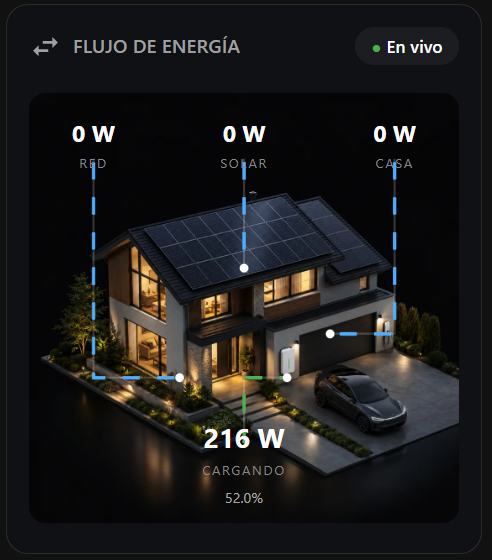
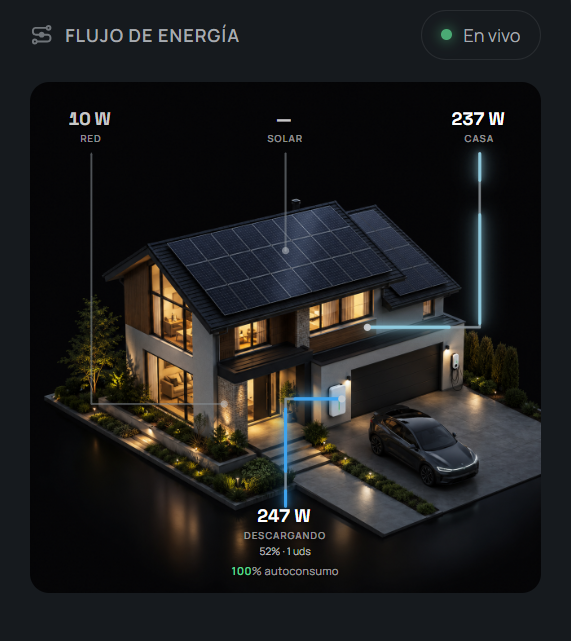
feat: align SVG flow paths to reference design, add neon glow, self-consumption and battery units

Changed region(s): [[0.061, 0.1518, 0.9451, 0.9107], [0.061, 0.0304, 0.4878, 0.1214], [0.7622, 0.0304, 0.9146, 0.0911]]

diff --git a/lovelace-3d-power-flow-card.js b/lovelace-3d-power-flow-card.js
@@ -7,63 +7,104 @@ class PowerFlow3DCard extends HTMLElement {
       const title = this.config.title || 'FLUJO DE ENERGÍA';
 
       this.innerHTML = `
-        <ha-card style="background: #0f1115; border-radius: 16px; overflow: hidden; padding: 16px; font-family: system-ui;">
-          <div style="display: flex; justify-content: space-between; align-items: center; color: #a0a0a0; margin-bottom: 20px; font-weight: 600;">
-            <div style="display: flex; align-items: center; gap: 8px;">
-              <ha-icon icon="mdi:swap-horizontal"></ha-icon> ${title}
+        <ha-card style="background: #0d0f12; border-radius: 20px; overflow: hidden; padding: 18px; font-family: system-ui, -apple-system, BlinkMacSystemFont, 'Segoe UI', Roboto, sans-serif; box-shadow: 0 8px 24px rgba(0,0,0,0.5);">
+          <!-- Header -->
+          <div style="display: flex; justify-content: space-between; align-items: center; margin-bottom: 16px; padding: 0 4px;">
+            <div style="display: flex; align-items: center; gap: 10px; color: #e1e4ea; font-size: 1.05rem; font-weight: 700; letter-spacing: 0.5px;">
+              <svg width="22" height="22" viewBox="0 0 24 24" fill="none" stroke="#8e95a0" stroke-width="2.2" stroke-linecap="round" stroke-linejoin="round">
+                <circle cx="5" cy="6" r="2"></circle>
+                <circle cx="19" cy="18" r="2"></circle>
+                <path d="M5 8v4a3 3 0 0 0 3 3h8a3 3 0 0 0 3-3V8"></path>
+              </svg>
+              <span>${title}</span>
             </div>
-            <div style="background: rgba(255,255,255,0.05); padding: 4px 12px; border-radius: 20px; color: #fff; font-size: 0.9em;">
-              <span style="color: #4CAF50;">●</span> En vivo
+            <div style="display: flex; align-items: center; gap: 7px; background: rgba(255,255,255,0.04); border: 1px solid rgba(255,255,255,0.08); padding: 5px 14px; border-radius: 20px; color: #e1e4ea; font-size: 0.85rem; font-weight: 500;">
+              <span style="display: inline-block; width: 8px; height: 8px; border-radius: 50%; background: #00E676; box-shadow: 0 0 8px #00E676;"></span>
+              <span>En vivo</span>
             </div>
           </div>
           
-          <div style="position: relative; width: 100%; aspect-ratio: 1/1;">
-            <img src="${bgImage}" style="width: 100%; height: 100%; object-fit: cover; border-radius: 12px;">
+          <!-- 3D Scene Viewport -->
+          <div style="position: relative; width: 100%; aspect-ratio: 1/1; border-radius: 16px; overflow: hidden; background: #000;">
+            <img src="${bgImage}" style="width: 100%; height: 100%; object-fit: cover; border-radius: 16px; display: block;">
             
-            <svg style="position: absolute; top: 0; left: 0; width: 100%; height: 100%;" viewBox="0 0 100 100" preserveAspectRatio="none">
+            <svg style="position: absolute; top: 0; left: 0; width: 100%; height: 100%; pointer-events: none;" viewBox="0 0 100 100" preserveAspectRatio="none">
+              <defs>
+                <filter id="glow-cyan" x="-20%" y="-20%" width="140%" height="140%">
+                  <feDropShadow dx="0" dy="0" stdDeviation="0.8" flood-color="#00e5ff" flood-opacity="0.9"/>
+                </filter>
+                <filter id="glow-green" x="-20%" y="-20%" width="140%" height="140%">
+                  <feDropShadow dx="0" dy="0" stdDeviation="0.8" flood-color="#00E676" flood-opacity="0.9"/>
+                </filter>
+                <filter id="glow-orange" x="-20%" y="-20%" width="140%" height="140%">
+                  <feDropShadow dx="0" dy="0" stdDeviation="0.8" flood-color="#ff9100" flood-opacity="0.9"/>
+                </filter>
+                <filter id="dot-glow" x="-50%" y="-50%" width="200%" height="200%">
+                  <feDropShadow dx="0" dy="0" stdDeviation="0.6" flood-color="#fff" flood-opacity="0.8"/>
+                </filter>
+              </defs>
               <style>
-                .flow-line { fill: none; stroke: rgba(255,255,255,0.2); stroke-width: 0.5; }
-                .flow-anim { fill: none; stroke: #4facfe; stroke-width: 0.8; stroke-dasharray: 4 4; animation: flow 2s linear infinite; }
-                @keyframes flow { to { stroke-dashoffset: -16; } }
-                @keyframes flow-reverse { to { stroke-dashoffset: 16; } }
+                .track-line { fill: none; stroke: rgba(255,255,255,0.18); stroke-width: 0.55; stroke-linecap: round; stroke-linejoin: round; }
+                .glow-path { fill: none; stroke-width: 0.85; stroke-linecap: round; stroke-linejoin: round; stroke-dasharray: 4 6; }
+                .node-dot { fill: #ffffff; filter: url(#dot-glow); }
+                @keyframes flow-forward {
+                  from { stroke-dashoffset: 20; }
+                  to { stroke-dashoffset: 0; }
+                }
+                @keyframes flow-backward {
+                  from { stroke-dashoffset: 0; }
+                  to { stroke-dashoffset: 20; }
+                }
               </style>
               
-              <path class="flow-line" d="M 15 15 L 15 65 L 35 65" />
-              <path id="path-grid" class="flow-anim" d="M 15 15 L 15 65 L 35 65" />
-              <circle cx="35" cy="65" r="1" fill="#fff" />
+              <!-- GRID: Top-Left to entrance (16, 23) -> (16, 62.5) -> (37, 62.5) -->
+              <path class="track-line" d="M 16 23 L 16 62.5 L 37 62.5" />
+              <path id="path-grid" class="glow-path" d="M 16 23 L 16 62.5 L 37 62.5" stroke="transparent" />
+              <circle cx="37" cy="62.5" r="1.1" class="node-dot" />
 
-              <path class="flow-line" d="M 50 15 L 50 40" />
-              <path id="path-solar" class="flow-anim" d="M 50 15 L 50 40" />
-              <circle cx="50" cy="40" r="1" fill="#fff" />
+              <!-- SOLAR: Top-Center to panels (50, 23) -> (50, 38.5) -->
+              <path class="track-line" d="M 50 23 L 50 38.5" />
+              <path id="path-solar" class="glow-path" d="M 50 23 L 50 38.5" stroke="transparent" />
+              <circle cx="50" cy="38.5" r="1.1" class="node-dot" />
 
-              <path class="flow-line" d="M 85 15 L 85 55 L 70 55" />
-              <path id="path-load" class="flow-anim" d="M 85 15 L 85 55 L 70 55" />
-              <circle cx="70" cy="55" r="1" fill="#fff" />
+              <!-- LOAD (CASA): Top-Right to living/floor (84, 23) -> (84, 50.5) -> (64, 50.5) -->
+              <path class="track-line" d="M 84 23 L 84 50.5 L 64 50.5" />
+              <path id="path-load" class="glow-path" d="M 84 23 L 84 50.5 L 64 50.5" stroke="transparent" />
+              <circle cx="64" cy="50.5" r="1.1" class="node-dot" />
 
-              <path class="flow-line" d="M 50 80 L 50 65 L 60 65" />
-              <path id="path-batt" class="flow-anim" d="M 50 80 L 50 65 L 60 65" />
-              <circle cx="60" cy="65" r="1" fill="#fff" />
+              <!-- BATTERY: Bottom-Center to wall unit (50, 75) -> (50, 62.5) -> (57.5, 62.5) -->
+              <path class="track-line" d="M 50 75 L 50 62.5 L 57.5 62.5" />
+              <path id="path-batt" class="glow-path" d="M 50 75 L 50 62.5 L 57.5 62.5" stroke="transparent" />
+              <circle cx="57.5" cy="62.5" r="1.1" class="node-dot" />
             </svg>
 
-            <div style="position: absolute; top: 5%; left: 15%; transform: translateX(-50%); text-align: center;">
-              <div id="val-grid" style="color: #fff; font-size: 1.2em; font-weight: bold;">0 W</div>
-              <div style="color: #888; font-size: 0.7em; letter-spacing: 1px;">RED</div>
+            <!-- Metrics Overlays -->
+            <!-- RED (Grid) -->
+            <div style="position: absolute; top: 5%; left: 16%; transform: translateX(-50%); text-align: center; text-shadow: 0 2px 10px rgba(0,0,0,0.9);">
+              <div id="val-grid" style="color: #ffffff; font-size: 1.35rem; font-weight: 800; line-height: 1.1;">0 W</div>
+              <div style="color: #8e95a0; font-size: 0.65rem; font-weight: 700; letter-spacing: 2px; margin-top: 2px;">RED</div>
             </div>
             
-            <div style="position: absolute; top: 5%; left: 50%; transform: translateX(-50%); text-align: center;">
-              <div id="val-solar" style="color: #fff; font-size: 1.2em; font-weight: bold;">0 W</div>
-              <div style="color: #888; font-size: 0.7em; letter-spacing: 1px;">SOLAR</div>
+            <!-- SOLAR -->
+            <div style="position: absolute; top: 5%; left: 50%; transform: translateX(-50%); text-align: center; text-shadow: 0 2px 10px rgba(0,0,0,0.9);">
+              <div id="val-solar" style="color: #ffffff; font-size: 1.35rem; font-weight: 800; line-height: 1.1;">—</div>
+              <div style="color: #8e95a0; font-size: 0.65rem; font-weight: 700; letter-spacing: 2px; margin-top: 2px;">SOLAR</div>
             </div>
             
-            <div style="position: absolute; top: 5%; left: 85%; transform: translateX(-50%); text-align: center;">
-              <div id="val-load" style="color: #fff; font-size: 1.2em; font-weight: bold;">0 W</div>
-              <div style="color: #888; font-size: 0.7em; letter-spacing: 1px;">CASA</div>
+            <!-- CASA (Load) -->
+            <div style="position: absolute; top: 5%; left: 84%; transform: translateX(-50%); text-align: center; text-shadow: 0 2px 10px rgba(0,0,0,0.9);">
+              <div id="val-load" style="color: #ffffff; font-size: 1.35rem; font-weight: 800; line-height: 1.1;">0 W</div>
+              <div style="color: #8e95a0; font-size: 0.65rem; font-weight: 700; letter-spacing: 2px; margin-top: 2px;">CASA</div>
             </div>
             
-            <div style="position: absolute; bottom: 5%; left: 50%; transform: translateX(-50%); text-align: center;">
-              <div id="val-batt" style="color: #fff; font-size: 1.4em; font-weight: bold;">0 W</div>
-              <div id="state-batt" style="color: #888; font-size: 0.7em; letter-spacing: 1px;">REPOSO</div>
-              <div id="soc-batt" style="color: #aaa; font-size: 0.75em; margin-top: 4px;">0%</div>
+            <!-- BATTERY & AUTOCONSUMO -->
+            <div style="position: absolute; bottom: 4%; left: 50%; transform: translateX(-50%); text-align: center; text-shadow: 0 2px 12px rgba(0,0,0,0.9); width: 80%;">
+              <div id="val-batt" style="color: #ffffff; font-size: 1.45rem; font-weight: 800; line-height: 1.1;">0 W</div>
+              <div id="state-batt" style="color: #8e95a0; font-size: 0.68rem; font-weight: 700; letter-spacing: 1.8px; margin-top: 3px;">REPOSO</div>
+              <div id="soc-batt" style="color: #cfd4dc; font-size: 0.78rem; font-weight: 600; margin-top: 2px;">0%</div>
+              <div id="autoconsumo-batt" style="font-size: 0.78rem; font-weight: 600; margin-top: 4px; color: #cfd4dc;">
+                <span id="autoconsumo-val" style="color: #00E676; font-weight: 800;">100%</span> autoconsumo
+              </div>
             </div>
           </div>
         </ha-card>
@@ -71,36 +112,118 @@ class PowerFlow3DCard extends HTMLElement {
       this.content = this.querySelector('ha-card');
     }
 
-    const getState = (entity) => entity && hass.states[entity] ? Math.round(hass.states[entity].state) : 0;
+    const getState = (entity) => {
+      if (!entity || !hass.states[entity]) return 0;
+      const val = parseFloat(hass.states[entity].state);
+      return isNaN(val) ? 0 : Math.round(val);
+    };
 
     const grid = getState(this.config.entities.grid);
     const load = getState(this.config.entities.load);
     const solar = getState(this.config.entities.solar);
     const batt = getState(this.config.entities.battery);
-    
-    this.querySelector('#val-grid').innerText = `${Math.abs(grid)} W`;
-    this.querySelector('#val-load').innerText = `${Math.abs(load)} W`;
-    this.querySelector('#val-solar').innerText = `${Math.abs(solar)} W`;
-    
-    const pathBatt = this.querySelector('#path-batt');
-    this.querySelector('#val-batt').innerText = `${Math.abs(batt)} W`;
-    
-    if (batt > 0) {
-      this.querySelector('#state-batt').innerText = 'DESCARGANDO';
-      pathBatt.style.animation = 'flow 2s linear infinite';
-      pathBatt.style.stroke = '#4facfe';
-    } else if (batt < 0) {
-      this.querySelector('#state-batt').innerText = 'CARGANDO';
-      pathBatt.style.animation = 'flow-reverse 2s linear infinite';
-      pathBatt.style.stroke = '#4CAF50';
+
+    // Formatter
+    const formatW = (w) => `${Math.abs(w)} W`;
+
+    // 1. Grid
+    const elGrid = this.querySelector('#val-grid');
+    const pathGrid = this.querySelector('#path-grid');
+    elGrid.innerText = formatW(grid);
+    if (grid > 10) {
+      // Importing from grid (flow into house)
+      pathGrid.style.stroke = '#00e5ff';
+      pathGrid.style.filter = 'url(#glow-cyan)';
+      pathGrid.style.animation = 'flow-forward 1.8s linear infinite';
+    } else if (grid < -10) {
+      // Exporting to grid (flow out)
+      pathGrid.style.stroke = '#ff9100';
+      pathGrid.style.filter = 'url(#glow-orange)';
+      pathGrid.style.animation = 'flow-backward 1.8s linear infinite';
     } else {
-      this.querySelector('#state-batt').innerText = 'REPOSO';
-      pathBatt.style.animation = 'none';
-      pathBatt.style.stroke = 'transparent';
+      pathGrid.style.stroke = 'transparent';
+      pathGrid.style.animation = 'none';
     }
 
+    // 2. Solar
+    const elSolar = this.querySelector('#val-solar');
+    const pathSolar = this.querySelector('#path-solar');
+    if (solar > 10) {
+      elSolar.innerText = formatW(solar);
+      pathSolar.style.stroke = '#00e5ff';
+      pathSolar.style.filter = 'url(#glow-cyan)';
+      pathSolar.style.animation = 'flow-forward 1.8s linear infinite';
+    } else {
+      elSolar.innerText = '—';
+      pathSolar.style.stroke = 'transparent';
+      pathSolar.style.animation = 'none';
+    }
+
+    // 3. Load (Casa)
+    const elLoad = this.querySelector('#val-load');
+    const pathLoad = this.querySelector('#path-load');
+    elLoad.innerText = formatW(load);
+    if (load > 10) {
+      pathLoad.style.stroke = '#00e5ff';
+      pathLoad.style.filter = 'url(#glow-cyan)';
+      pathLoad.style.animation = 'flow-forward 1.8s linear infinite';
+    } else {
+      pathLoad.style.stroke = 'transparent';
+      pathLoad.style.animation = 'none';
+    }
+
+    // 4. Battery
+    const elBatt = this.querySelector('#val-batt');
+    const elStateBatt = this.querySelector('#state-batt');
+    const pathBatt = this.querySelector('#path-batt');
+    elBatt.innerText = formatW(batt);
+
+    if (batt > 15) {
+      // Discharging (providing power to home) -> Cyan glowing flow upward
+      elStateBatt.innerText = 'DESCARGANDO';
+      pathBatt.style.stroke = '#00e5ff';
+      pathBatt.style.filter = 'url(#glow-cyan)';
+      pathBatt.style.animation = 'flow-backward 1.8s linear infinite';
+    } else if (batt < -15) {
+      // Charging (receiving power) -> Green glowing flow downward
+      elStateBatt.innerText = 'CARGANDO';
+      pathBatt.style.stroke = '#00E676';
+      pathBatt.style.filter = 'url(#glow-green)';
+      pathBatt.style.animation = 'flow-forward 1.8s linear infinite';
+    } else {
+      elStateBatt.innerText = 'REPOSO';
+      pathBatt.style.stroke = 'transparent';
+      pathBatt.style.animation = 'none';
+    }
+
+    // SOC & Units
+    const elSoc = this.querySelector('#soc-batt');
+    let socVal = 0;
     if (this.config.entities.battery_soc && hass.states[this.config.entities.battery_soc]) {
-      this.querySelector('#soc-batt').innerText = `${hass.states[this.config.entities.battery_soc].state}%`;
+      const rawSoc = parseFloat(hass.states[this.config.entities.battery_soc].state);
+      socVal = isNaN(rawSoc) ? 0 : Math.round(rawSoc);
+    }
+    const units = this.config.battery_units !== undefined ? this.config.battery_units : 1;
+    if (units) {
+      elSoc.innerText = `${socVal}% · ${units} uds`;
+    } else {
+      elSoc.innerText = `${socVal}%`;
+    }
+
+    // Autoconsumo calculation
+    const elAutoconsumo = this.querySelector('#autoconsumo-batt');
+    const elAutoconsumoVal = this.querySelector('#autoconsumo-val');
+    if (this.config.show_autoconsumo !== false) {
+      elAutoconsumo.style.display = 'block';
+      let autoPct = 100;
+      if (load > 0) {
+        const importFromGrid = Math.max(0, grid);
+        const selfConsumed = Math.max(0, load - importFromGrid);
+        autoPct = Math.min(100, Math.max(0, Math.round((selfConsumed / load) * 100)));
+      }
+      elAutoconsumoVal.innerText = `${autoPct}%`;
+    } else {
+      elAutoconsumo.style.display = 'none';
     }
   }
 

diff --git a/README.md b/README.md
@@ -37,5 +37,8 @@ entities:
 | `type` | string | **Required** | `custom:lovelace-3d-power-flow-card` | |
 | `entities` | object | **Required** | Entities mapping (`grid`, `load`, `solar`, `battery`, `battery_soc`) | |
 | `title` | string | Optional | Header title | `FLUJO DE ENERGÍA` |
-| `image` | string | Optional | Custom background image path or URL | Built-in 3D House Image (`default_3d_house.png`) |
+| `image` | string | Optional | Custom background image path or URL | Built-in 3D House Image |
+| `battery_units` | number | Optional | Number of battery units displayed next to SoC (e.g. `52% · 1 uds`) | `1` |
+| `show_autoconsumo` | boolean | Optional | Display real-time self-consumption percentage | `true` |
+
 
